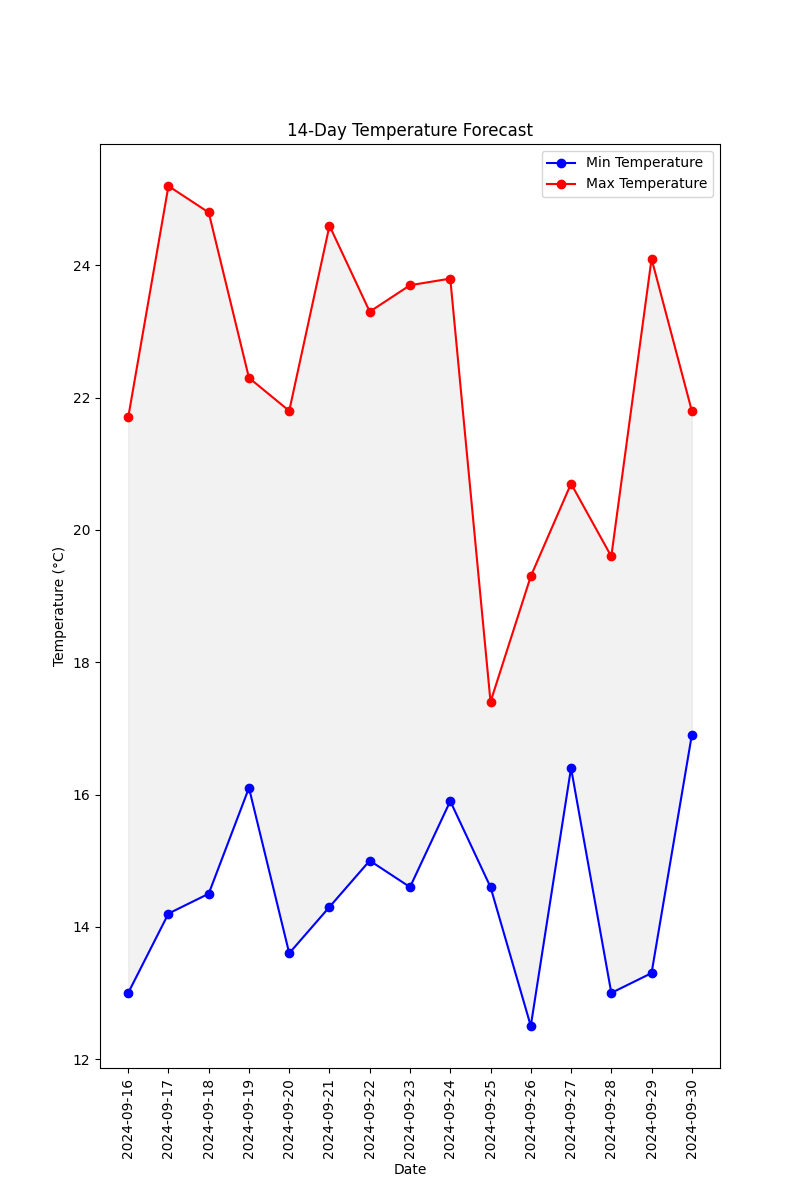
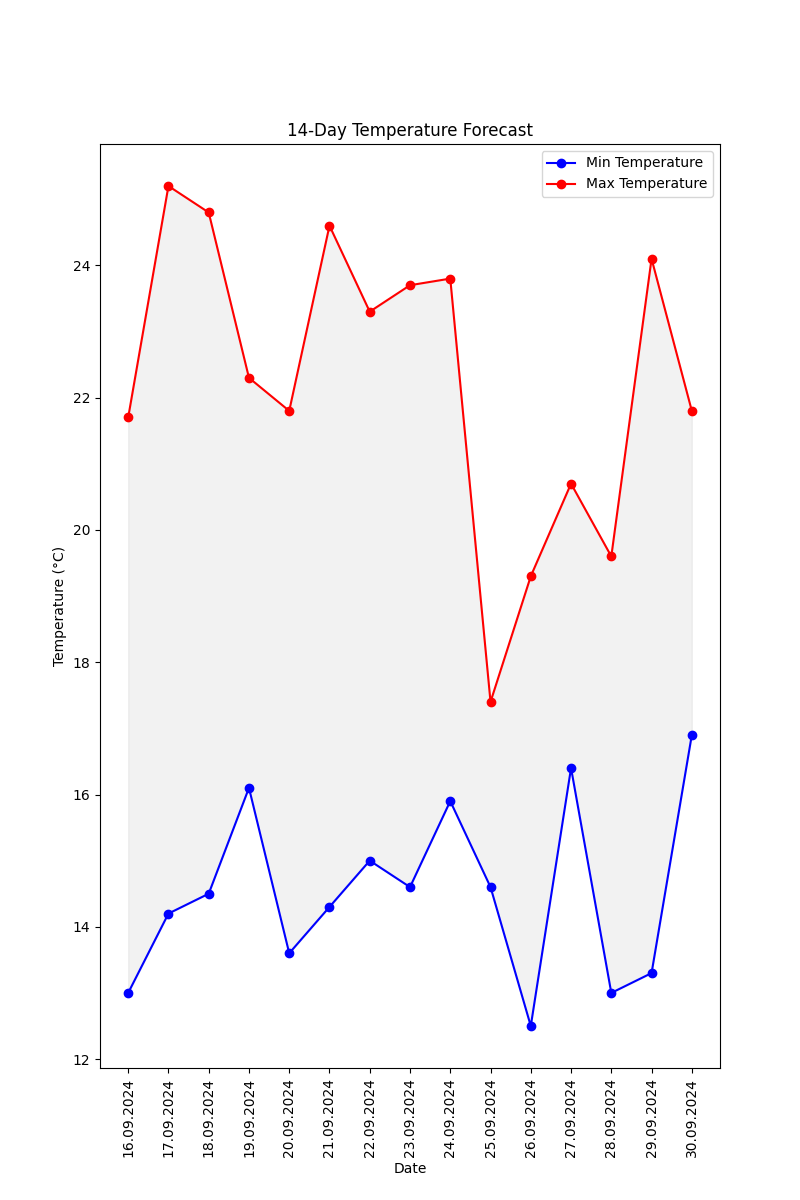
Convert date into european format

diff --git a/index.html b/index.html
@@ -7,21 +7,21 @@
         </head>
         <body>
             <h1>14-Day Weather Forecast for Berlin</h1>
-            <pre>Datum: 2024-09-16, Min-Temp: 13.0°C, Max-Temp: 21.7°C, Regenwahrscheinlichkeit: 4.5%, Windgeschwindigkeit: 27.7 km/h
-Datum: 2024-09-17, Min-Temp: 14.2°C, Max-Temp: 25.2°C, Regenwahrscheinlichkeit: 0.0%, Windgeschwindigkeit: 13.7 km/h
-Datum: 2024-09-18, Min-Temp: 14.5°C, Max-Temp: 24.8°C, Regenwahrscheinlichkeit: 0.0%, Windgeschwindigkeit: 12.2 km/h
-Datum: 2024-09-19, Min-Temp: 16.1°C, Max-Temp: 22.3°C, Regenwahrscheinlichkeit: 0.3%, Windgeschwindigkeit: 13.7 km/h
-Datum: 2024-09-20, Min-Temp: 13.6°C, Max-Temp: 21.8°C, Regenwahrscheinlichkeit: 0.0%, Windgeschwindigkeit: 16.9 km/h
-Datum: 2024-09-21, Min-Temp: 14.3°C, Max-Temp: 24.6°C, Regenwahrscheinlichkeit: 0.0%, Windgeschwindigkeit: 15.8 km/h
-Datum: 2024-09-22, Min-Temp: 15.0°C, Max-Temp: 23.3°C, Regenwahrscheinlichkeit: 0.0%, Windgeschwindigkeit: 14.8 km/h
-Datum: 2024-09-23, Min-Temp: 14.6°C, Max-Temp: 23.7°C, Regenwahrscheinlichkeit: 0.0%, Windgeschwindigkeit: 10.8 km/h
-Datum: 2024-09-24, Min-Temp: 15.9°C, Max-Temp: 23.8°C, Regenwahrscheinlichkeit: 0.0%, Windgeschwindigkeit: 11.2 km/h
-Datum: 2024-09-25, Min-Temp: 14.6°C, Max-Temp: 17.4°C, Regenwahrscheinlichkeit: 10.9%, Windgeschwindigkeit: 29.5 km/h
-Datum: 2024-09-26, Min-Temp: 12.5°C, Max-Temp: 19.3°C, Regenwahrscheinlichkeit: 0.2%, Windgeschwindigkeit: 27.6 km/h
-Datum: 2024-09-27, Min-Temp: 16.4°C, Max-Temp: 20.7°C, Regenwahrscheinlichkeit: 1.4%, Windgeschwindigkeit: 19.1 km/h
-Datum: 2024-09-28, Min-Temp: 13.0°C, Max-Temp: 19.6°C, Regenwahrscheinlichkeit: 0.0%, Windgeschwindigkeit: 11.8 km/h
-Datum: 2024-09-29, Min-Temp: 13.3°C, Max-Temp: 24.1°C, Regenwahrscheinlichkeit: 0.0%, Windgeschwindigkeit: 14.0 km/h
-Datum: 2024-09-30, Min-Temp: 16.9°C, Max-Temp: 21.8°C, Regenwahrscheinlichkeit: 4.7%, Windgeschwindigkeit: 10.6 km/h
+            <pre>Datum: 16.09.2024, Min-Temp: 13.0°C, Max-Temp: 21.7°C, Regenwahrscheinlichkeit: 4.5%, Windgeschwindigkeit: 27.7 km/h
+Datum: 17.09.2024, Min-Temp: 14.2°C, Max-Temp: 25.2°C, Regenwahrscheinlichkeit: 0.0%, Windgeschwindigkeit: 13.7 km/h
+Datum: 18.09.2024, Min-Temp: 14.5°C, Max-Temp: 24.8°C, Regenwahrscheinlichkeit: 0.0%, Windgeschwindigkeit: 12.2 km/h
+Datum: 19.09.2024, Min-Temp: 16.1°C, Max-Temp: 22.3°C, Regenwahrscheinlichkeit: 0.3%, Windgeschwindigkeit: 13.7 km/h
+Datum: 20.09.2024, Min-Temp: 13.6°C, Max-Temp: 21.8°C, Regenwahrscheinlichkeit: 0.0%, Windgeschwindigkeit: 16.9 km/h
+Datum: 21.09.2024, Min-Temp: 14.3°C, Max-Temp: 24.6°C, Regenwahrscheinlichkeit: 0.0%, Windgeschwindigkeit: 15.8 km/h
+Datum: 22.09.2024, Min-Temp: 15.0°C, Max-Temp: 23.3°C, Regenwahrscheinlichkeit: 0.0%, Windgeschwindigkeit: 14.8 km/h
+Datum: 23.09.2024, Min-Temp: 14.6°C, Max-Temp: 23.7°C, Regenwahrscheinlichkeit: 0.0%, Windgeschwindigkeit: 10.8 km/h
+Datum: 24.09.2024, Min-Temp: 15.9°C, Max-Temp: 23.8°C, Regenwahrscheinlichkeit: 0.0%, Windgeschwindigkeit: 11.2 km/h
+Datum: 25.09.2024, Min-Temp: 14.6°C, Max-Temp: 17.4°C, Regenwahrscheinlichkeit: 10.9%, Windgeschwindigkeit: 29.5 km/h
+Datum: 26.09.2024, Min-Temp: 12.5°C, Max-Temp: 19.3°C, Regenwahrscheinlichkeit: 0.2%, Windgeschwindigkeit: 27.6 km/h
+Datum: 27.09.2024, Min-Temp: 16.4°C, Max-Temp: 20.7°C, Regenwahrscheinlichkeit: 1.4%, Windgeschwindigkeit: 19.1 km/h
+Datum: 28.09.2024, Min-Temp: 13.0°C, Max-Temp: 19.6°C, Regenwahrscheinlichkeit: 0.0%, Windgeschwindigkeit: 11.8 km/h
+Datum: 29.09.2024, Min-Temp: 13.3°C, Max-Temp: 24.1°C, Regenwahrscheinlichkeit: 0.0%, Windgeschwindigkeit: 14.0 km/h
+Datum: 30.09.2024, Min-Temp: 16.9°C, Max-Temp: 21.8°C, Regenwahrscheinlichkeit: 4.7%, Windgeschwindigkeit: 10.6 km/h
 </pre>
             <h2>Temperature Chart</h2>
             <img src="temperature_chart.png" alt="Temperature Chart">

diff --git a/weather_fetch.py b/weather_fetch.py
@@ -1,3 +1,4 @@
+import datetime as dt
 import requests
 from config import WEATHER_API_KEY
 
@@ -10,7 +11,9 @@ def get_weather_forecast(location):
 
     forecast = ""
     for day in data['days']:
-        forecast += (f"Datum: {day['datetime']}, Min-Temp: {day['tempmin']}°C, Max-Temp: {day['tempmax']}°C, "
+        # Convert date into european format
+        date = dt.datetime.strptime(day['datetime'],"%Y-%m-%d").strftime("%d.%m.%Y")
+        forecast += (f"Datum: {date}, Min-Temp: {day['tempmin']}°C, Max-Temp: {day['tempmax']}°C, "
                      f"Regenwahrscheinlichkeit: {day['precip']}%, Windgeschwindigkeit: {day['windspeed']} km/h\n")
     
     return forecast
